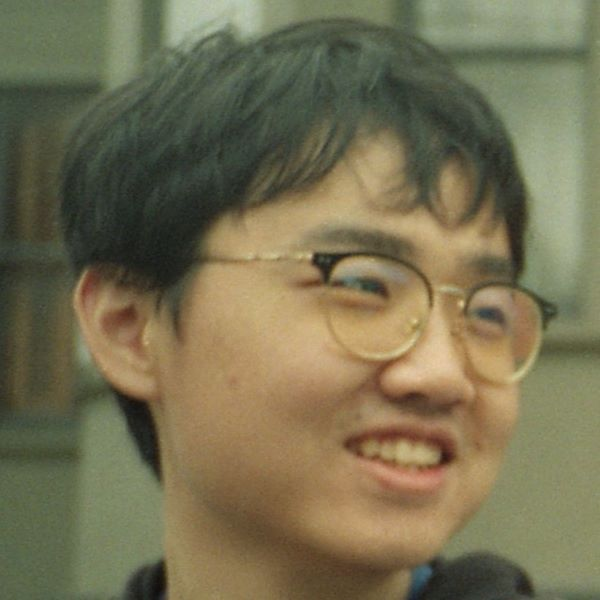
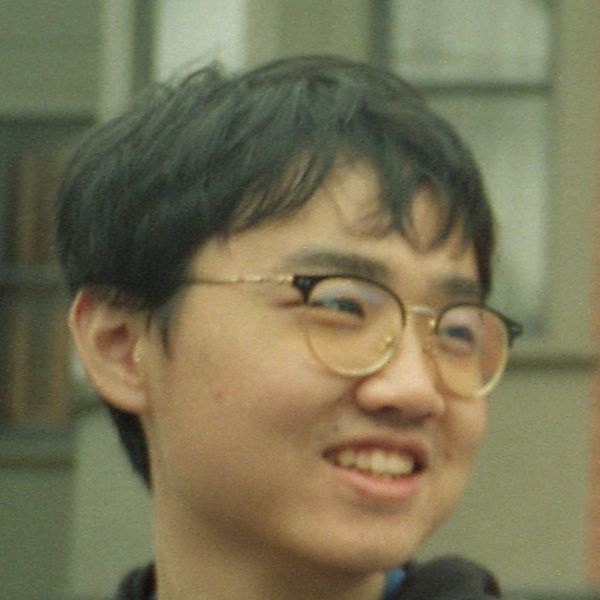
Site updated: 2024-02-05 13:10:51

diff --git a/Experience/index.html b/Experience/index.html
@@ -1,5 +1,5 @@
 <!DOCTYPE html><html lang="en"><head><meta charset="UTF-8"><meta http-equiv="X-UA-Compatible" content="IE=edge"><meta name="viewport" content="width=device-width, initial-scale=1, maximum-scale=5"><title>Fang Chen (谌放)</title><meta name="author" content="Fang Chen"><link rel="shortcut icon" href="/img/favicon.png"><link rel="stylesheet" href="/css/index.css"><link rel="stylesheet" href="https://cdn.jsdelivr.net/npm/font-awesome@latest/css/font-awesome.min.css"><link rel="stylesheet" href="https://cdn.jsdelivr.net/npm/@fortawesome/fontawesome-free@5.13.0/css/all.min.css"><meta name="generator" content="Hexo 7.1.1"><link rel="alternate" href="/atom.xml" title="Fang Chen (谌放)" type="application/atom+xml">
-</head><body><header id="page_header"><div class="header_wrap"><div id="blog_name"><a class="blog_title" id="site-name" href="/">Fang Chen (谌放)</a></div><button class="menus_icon"><div class="navicon"></div></button><ul class="menus_items"><li class="menus_item"><a class="site-page" href="/Publications"> Publications</a></li><li class="menus_item"><a class="site-page" href="/Experience"> Experience</a></li><li class="menus_item"><a class="site-page" href="/Teaching"> Teaching</a></li></ul></div></header><main id="page_main"><div class="side-card sticky"><div class="card-wrap" itemscope itemtype="http://schema.org/Person"><div class="author-avatar"><img class="avatar-img" src="/img/profile.jpg" onerror="this.onerror=null;this.src='/img/profile.jpg'" alt="avatar"></div><div class="author-discrip"><h3>Fang Chen</h3><p class="author-bio">Ph.D. student @ University of California Merced</p></div><div class="author-links"><button class="btn m-social-links">Links</button><ul class="social-icons"><li><a class="social-icon" href="https://github.com/C-Fun" target="_blank"><i class="fab fa-github" aria-hidden="true"></i></a></li><li><a class="social-icon" href="https://www.linkedin.com/in/cfun/" target="_blank"><i class="fab fa-linkedin" aria-hidden="true"></i></a></li><li><a class="social-icon" href="mailto:fchen20@ucmerced.edu" target="_blank"><i class="fas fa-envelope" aria-hidden="true"></i></a></li></ul><ul class="social-links"><li><a class="e-social-link" href="https://scholar.google.com/citations?user=5Hu8vwwAAAAJ&amp;hl=en&amp;authuser=1" target="_blank"><i class="fas fa-graduation-cap" aria-hidden="true"></i><span>Google Scholar</span></a></li></ul></div><a class="cv-links" href="/attaches/CV.pdf" target="_blank"><i class="fas fa-file-pdf" aria-hidden="true"><span>My Curriculum Vitae</span></i></a></div></div><div class="page" itemscope itemtype="http://schema.org/CreativeWork"><h2 class="page-title">Experience</h2><article><ul>
+</head><body><header id="page_header"><div class="header_wrap"><div id="blog_name"><a class="blog_title" id="site-name" href="/">Fang Chen (谌放)</a></div><button class="menus_icon"><div class="navicon"></div></button><ul class="menus_items"><li class="menus_item"><a class="site-page" href="/Publications"> Publications</a></li><li class="menus_item"><a class="site-page" href="/Experience"> Experience</a></li><li class="menus_item"><a class="site-page" href="/Teaching"> Teaching</a></li></ul></div></header><main id="page_main"><div class="side-card sticky"><div class="card-wrap" itemscope itemtype="http://schema.org/Person"><div class="author-avatar"><img class="avatar-img" src="/img/profile_2024.jpg" onerror="this.onerror=null;this.src='/img/profile_2024.jpg'" alt="avatar"></div><div class="author-discrip"><h3>Fang Chen</h3><p class="author-bio">Ph.D. student @ University of California Merced</p></div><div class="author-links"><button class="btn m-social-links">Links</button><ul class="social-icons"><li><a class="social-icon" href="https://github.com/C-Fun" target="_blank"><i class="fab fa-github" aria-hidden="true"></i></a></li><li><a class="social-icon" href="https://www.linkedin.com/in/cfun/" target="_blank"><i class="fab fa-linkedin" aria-hidden="true"></i></a></li><li><a class="social-icon" href="mailto:fchen20@ucmerced.edu" target="_blank"><i class="fas fa-envelope" aria-hidden="true"></i></a></li></ul><ul class="social-links"><li><a class="e-social-link" href="https://scholar.google.com/citations?user=5Hu8vwwAAAAJ&amp;hl=en&amp;authuser=1" target="_blank"><i class="fas fa-graduation-cap" aria-hidden="true"></i><span>Google Scholar</span></a></li></ul></div><a class="cv-links" href="/attaches/CV.pdf" target="_blank"><i class="fas fa-file-pdf" aria-hidden="true"><span>My Curriculum Vitae</span></i></a></div></div><div class="page" itemscope itemtype="http://schema.org/CreativeWork"><h2 class="page-title">Experience</h2><article><ul>
 <li><a target="_blank" rel="noopener" href="https://intelailabpage.github.io/"><strong>Intel AI Lab</strong></a> | Graduate Intern (May 2022 - Jan. 2023)</li>
 </ul>
 </article></div></main><div class="nav-wrap"><div class="nav"><button class="site-nav"><div class="navicon"></div></button><ul class="nav_items"><li class="nav_item"><a class="nav-page" href="/Publications"> Publications</a></li><li class="nav_item"><a class="nav-page" href="/Experience"> Experience</a></li><li class="nav_item"><a class="nav-page" href="/Teaching"> Teaching</a></li></ul></div><div class="cd-top"><i class="fa fa-arrow-up" aria-hidden="true"></i></div></div><footer id="page_footer"><div class="footer_wrap"><div class="copyright">&copy;2021 - 2024 by Fang Chen</div><div class="theme-info">Powered by <a target="_blank" href="https://hexo.io" rel="nofollow noopener">Hexo</a> & <a target="_blank" href="https://github.com/PhosphorW/hexo-theme-academia" rel="nofollow noopener">Academia Theme</a></div></div></footer><script src="https://cdn.jsdelivr.net/npm/jquery@latest/dist/jquery.min.js"></script><script src="https://cdn.jsdelivr.net/npm/jquery-pjax@latest/jquery.pjax.min.js"></script><script src="/js/main.js"></script></body></html>

diff --git a/Teaching/index.html b/Teaching/index.html
@@ -1,5 +1,5 @@
 <!DOCTYPE html><html lang="en"><head><meta charset="UTF-8"><meta http-equiv="X-UA-Compatible" content="IE=edge"><meta name="viewport" content="width=device-width, initial-scale=1, maximum-scale=5"><title>Fang Chen (谌放)</title><meta name="author" content="Fang Chen"><link rel="shortcut icon" href="/img/favicon.png"><link rel="stylesheet" href="/css/index.css"><link rel="stylesheet" href="https://cdn.jsdelivr.net/npm/font-awesome@latest/css/font-awesome.min.css"><link rel="stylesheet" href="https://cdn.jsdelivr.net/npm/@fortawesome/fontawesome-free@5.13.0/css/all.min.css"><meta name="generator" content="Hexo 7.1.1"><link rel="alternate" href="/atom.xml" title="Fang Chen (谌放)" type="application/atom+xml">
-</head><body><header id="page_header"><div class="header_wrap"><div id="blog_name"><a class="blog_title" id="site-name" href="/">Fang Chen (谌放)</a></div><button class="menus_icon"><div class="navicon"></div></button><ul class="menus_items"><li class="menus_item"><a class="site-page" href="/Publications"> Publications</a></li><li class="menus_item"><a class="site-page" href="/Experience"> Experience</a></li><li class="menus_item"><a class="site-page" href="/Teaching"> Teaching</a></li></ul></div></header><main id="page_main"><div class="side-card sticky"><div class="card-wrap" itemscope itemtype="http://schema.org/Person"><div class="author-avatar"><img class="avatar-img" src="/img/profile.jpg" onerror="this.onerror=null;this.src='/img/profile.jpg'" alt="avatar"></div><div class="author-discrip"><h3>Fang Chen</h3><p class="author-bio">Ph.D. student @ University of California Merced</p></div><div class="author-links"><button class="btn m-social-links">Links</button><ul class="social-icons"><li><a class="social-icon" href="https://github.com/C-Fun" target="_blank"><i class="fab fa-github" aria-hidden="true"></i></a></li><li><a class="social-icon" href="https://www.linkedin.com/in/cfun/" target="_blank"><i class="fab fa-linkedin" aria-hidden="true"></i></a></li><li><a class="social-icon" href="mailto:fchen20@ucmerced.edu" target="_blank"><i class="fas fa-envelope" aria-hidden="true"></i></a></li></ul><ul class="social-links"><li><a class="e-social-link" href="https://scholar.google.com/citations?user=5Hu8vwwAAAAJ&amp;hl=en&amp;authuser=1" target="_blank"><i class="fas fa-graduation-cap" aria-hidden="true"></i><span>Google Scholar</span></a></li></ul></div><a class="cv-links" href="/attaches/CV.pdf" target="_blank"><i class="fas fa-file-pdf" aria-hidden="true"><span>My Curriculum Vitae</span></i></a></div></div><div class="page" itemscope itemtype="http://schema.org/CreativeWork"><h2 class="page-title">Teaching</h2><article><ul>
+</head><body><header id="page_header"><div class="header_wrap"><div id="blog_name"><a class="blog_title" id="site-name" href="/">Fang Chen (谌放)</a></div><button class="menus_icon"><div class="navicon"></div></button><ul class="menus_items"><li class="menus_item"><a class="site-page" href="/Publications"> Publications</a></li><li class="menus_item"><a class="site-page" href="/Experience"> Experience</a></li><li class="menus_item"><a class="site-page" href="/Teaching"> Teaching</a></li></ul></div></header><main id="page_main"><div class="side-card sticky"><div class="card-wrap" itemscope itemtype="http://schema.org/Person"><div class="author-avatar"><img class="avatar-img" src="/img/profile_2024.jpg" onerror="this.onerror=null;this.src='/img/profile_2024.jpg'" alt="avatar"></div><div class="author-discrip"><h3>Fang Chen</h3><p class="author-bio">Ph.D. student @ University of California Merced</p></div><div class="author-links"><button class="btn m-social-links">Links</button><ul class="social-icons"><li><a class="social-icon" href="https://github.com/C-Fun" target="_blank"><i class="fab fa-github" aria-hidden="true"></i></a></li><li><a class="social-icon" href="https://www.linkedin.com/in/cfun/" target="_blank"><i class="fab fa-linkedin" aria-hidden="true"></i></a></li><li><a class="social-icon" href="mailto:fchen20@ucmerced.edu" target="_blank"><i class="fas fa-envelope" aria-hidden="true"></i></a></li></ul><ul class="social-links"><li><a class="e-social-link" href="https://scholar.google.com/citations?user=5Hu8vwwAAAAJ&amp;hl=en&amp;authuser=1" target="_blank"><i class="fas fa-graduation-cap" aria-hidden="true"></i><span>Google Scholar</span></a></li></ul></div><a class="cv-links" href="/attaches/CV.pdf" target="_blank"><i class="fas fa-file-pdf" aria-hidden="true"><span>My Curriculum Vitae</span></i></a></div></div><div class="page" itemscope itemtype="http://schema.org/CreativeWork"><h2 class="page-title">Teaching</h2><article><ul>
 <li><strong>CSE 170: Computer Graphics, Lab Session</strong> | undergraduate course, UC Merced, 2024 spring</li>
 </ul>
 </article></div></main><div class="nav-wrap"><div class="nav"><button class="site-nav"><div class="navicon"></div></button><ul class="nav_items"><li class="nav_item"><a class="nav-page" href="/Publications"> Publications</a></li><li class="nav_item"><a class="nav-page" href="/Experience"> Experience</a></li><li class="nav_item"><a class="nav-page" href="/Teaching"> Teaching</a></li></ul></div><div class="cd-top"><i class="fa fa-arrow-up" aria-hidden="true"></i></div></div><footer id="page_footer"><div class="footer_wrap"><div class="copyright">&copy;2021 - 2024 by Fang Chen</div><div class="theme-info">Powered by <a target="_blank" href="https://hexo.io" rel="nofollow noopener">Hexo</a> & <a target="_blank" href="https://github.com/PhosphorW/hexo-theme-academia" rel="nofollow noopener">Academia Theme</a></div></div></footer><script src="https://cdn.jsdelivr.net/npm/jquery@latest/dist/jquery.min.js"></script><script src="https://cdn.jsdelivr.net/npm/jquery-pjax@latest/jquery.pjax.min.js"></script><script src="/js/main.js"></script></body></html>

diff --git a/2024/01/23/About/index.html b/2024/01/23/About/index.html
@@ -1,5 +1,5 @@
 <!DOCTYPE html><html lang="en"><head><meta charset="UTF-8"><meta http-equiv="X-UA-Compatible" content="IE=edge"><meta name="viewport" content="width=device-width, initial-scale=1, maximum-scale=5"><title>Fang Chen (谌放)</title><meta name="author" content="Fang Chen"><link rel="shortcut icon" href="/img/favicon.png"><link rel="stylesheet" href="/css/index.css"><link rel="stylesheet" href="https://cdn.jsdelivr.net/npm/font-awesome@latest/css/font-awesome.min.css"><link rel="stylesheet" href="https://cdn.jsdelivr.net/npm/@fortawesome/fontawesome-free@5.13.0/css/all.min.css"><meta name="generator" content="Hexo 7.1.1"><link rel="alternate" href="/atom.xml" title="Fang Chen (谌放)" type="application/atom+xml">
-</head><body><header id="page_header"><div class="header_wrap"><div id="blog_name"><a class="blog_title" id="site-name" href="/">Fang Chen (谌放)</a></div><button class="menus_icon"><div class="navicon"></div></button><ul class="menus_items"><li class="menus_item"><a class="site-page" href="/Publications"> Publications</a></li><li class="menus_item"><a class="site-page" href="/Experience"> Experience</a></li><li class="menus_item"><a class="site-page" href="/Teaching"> Teaching</a></li></ul></div></header><main id="page_main"><div class="side-card sticky"><div class="card-wrap" itemscope itemtype="http://schema.org/Person"><div class="author-avatar"><img class="avatar-img" src="/img/profile.jpg" onerror="this.onerror=null;this.src='/img/profile.jpg'" alt="avatar"></div><div class="author-discrip"><h3>Fang Chen</h3><p class="author-bio">Ph.D. student @ University of California Merced</p></div><div class="author-links"><button class="btn m-social-links">Links</button><ul class="social-icons"><li><a class="social-icon" href="https://github.com/C-Fun" target="_blank"><i class="fab fa-github" aria-hidden="true"></i></a></li><li><a class="social-icon" href="https://www.linkedin.com/in/cfun/" target="_blank"><i class="fab fa-linkedin" aria-hidden="true"></i></a></li><li><a class="social-icon" href="mailto:fchen20@ucmerced.edu" target="_blank"><i class="fas fa-envelope" aria-hidden="true"></i></a></li></ul><ul class="social-links"><li><a class="e-social-link" href="https://scholar.google.com/citations?user=5Hu8vwwAAAAJ&amp;hl=en&amp;authuser=1" target="_blank"><i class="fas fa-graduation-cap" aria-hidden="true"></i><span>Google Scholar</span></a></li></ul></div><a class="cv-links" href="/attaches/CV.pdf" target="_blank"><i class="fas fa-file-pdf" aria-hidden="true"><span>My Curriculum Vitae</span></i></a></div></div><div class="page" itemscope itemtype="http://schema.org/CreativeWork"><h2 class="page-title">About</h2><article><h1 id="About-Me"><a href="#About-Me" class="headerlink" title="About Me"></a>About Me</h1><p> I am a first-year CS Ph.D. student at EECS of University of California Merced, supervised by <a target="_blank" rel="noopener" href="http://mengtang.org/">Prof. Meng Tang</a>. </p>
+</head><body><header id="page_header"><div class="header_wrap"><div id="blog_name"><a class="blog_title" id="site-name" href="/">Fang Chen (谌放)</a></div><button class="menus_icon"><div class="navicon"></div></button><ul class="menus_items"><li class="menus_item"><a class="site-page" href="/Publications"> Publications</a></li><li class="menus_item"><a class="site-page" href="/Experience"> Experience</a></li><li class="menus_item"><a class="site-page" href="/Teaching"> Teaching</a></li></ul></div></header><main id="page_main"><div class="side-card sticky"><div class="card-wrap" itemscope itemtype="http://schema.org/Person"><div class="author-avatar"><img class="avatar-img" src="/img/profile_2024.jpg" onerror="this.onerror=null;this.src='/img/profile_2024.jpg'" alt="avatar"></div><div class="author-discrip"><h3>Fang Chen</h3><p class="author-bio">Ph.D. student @ University of California Merced</p></div><div class="author-links"><button class="btn m-social-links">Links</button><ul class="social-icons"><li><a class="social-icon" href="https://github.com/C-Fun" target="_blank"><i class="fab fa-github" aria-hidden="true"></i></a></li><li><a class="social-icon" href="https://www.linkedin.com/in/cfun/" target="_blank"><i class="fab fa-linkedin" aria-hidden="true"></i></a></li><li><a class="social-icon" href="mailto:fchen20@ucmerced.edu" target="_blank"><i class="fas fa-envelope" aria-hidden="true"></i></a></li></ul><ul class="social-links"><li><a class="e-social-link" href="https://scholar.google.com/citations?user=5Hu8vwwAAAAJ&amp;hl=en&amp;authuser=1" target="_blank"><i class="fas fa-graduation-cap" aria-hidden="true"></i><span>Google Scholar</span></a></li></ul></div><a class="cv-links" href="/attaches/CV.pdf" target="_blank"><i class="fas fa-file-pdf" aria-hidden="true"><span>My Curriculum Vitae</span></i></a></div></div><div class="page" itemscope itemtype="http://schema.org/CreativeWork"><h2 class="page-title">About</h2><article><h1 id="About-Me"><a href="#About-Me" class="headerlink" title="About Me"></a>About Me</h1><p> I am a first-year CS Ph.D. student at EECS of University of California Merced, supervised by <a target="_blank" rel="noopener" href="http://mengtang.org/">Prof. Meng Tang</a>. </p>
 <p> Previously, I received my M.S. degree in Electrical Engineering at University of Southern California, working with <a target="_blank" rel="noopener" href="https://sites.usc.edu/eessc/">EESSC</a>.<br> I received my B.E. degree in Digital Media Technology at Chongqing University of Posts and Telecommunications, supervised by <a target="_blank" rel="noopener" href="https://gaocq.github.io/">Prof. Chenqiang Gao</a>.</p>
 <p> My research interests are computer vision and efficient deep learning. More specifically,</p>
 <ul>

diff --git a/archives/2024/01/index.html b/archives/2024/01/index.html
@@ -1,5 +1,5 @@
 <!DOCTYPE html><html lang="en"><head><meta charset="UTF-8"><meta http-equiv="X-UA-Compatible" content="IE=edge"><meta name="viewport" content="width=device-width, initial-scale=1, maximum-scale=5"><title>Fang Chen (谌放)</title><meta name="author" content="Fang Chen"><link rel="shortcut icon" href="/img/favicon.png"><link rel="stylesheet" href="/css/index.css"><link rel="stylesheet" href="https://cdn.jsdelivr.net/npm/font-awesome@latest/css/font-awesome.min.css"><link rel="stylesheet" href="https://cdn.jsdelivr.net/npm/@fortawesome/fontawesome-free@5.13.0/css/all.min.css"><meta name="generator" content="Hexo 7.1.1"><link rel="alternate" href="/atom.xml" title="Fang Chen (谌放)" type="application/atom+xml">
-</head><body><header id="page_header"><div class="header_wrap"><div id="blog_name"><a class="blog_title" id="site-name" href="/">Fang Chen (谌放)</a></div><button class="menus_icon"><div class="navicon"></div></button><ul class="menus_items"><li class="menus_item"><a class="site-page" href="/Publications"> Publications</a></li><li class="menus_item"><a class="site-page" href="/Experience"> Experience</a></li><li class="menus_item"><a class="site-page" href="/Teaching"> Teaching</a></li></ul></div></header><main id="page_main"><div class="side-card sticky"><div class="card-wrap" itemscope itemtype="http://schema.org/Person"><div class="author-avatar"><img class="avatar-img" src="/img/profile.jpg" onerror="this.onerror=null;this.src='/img/profile.jpg'" alt="avatar"></div><div class="author-discrip"><h3>Fang Chen</h3><p class="author-bio">Ph.D. student @ University of California Merced</p></div><div class="author-links"><button class="btn m-social-links">Links</button><ul class="social-icons"><li><a class="social-icon" href="https://github.com/C-Fun" target="_blank"><i class="fab fa-github" aria-hidden="true"></i></a></li><li><a class="social-icon" href="https://www.linkedin.com/in/cfun/" target="_blank"><i class="fab fa-linkedin" aria-hidden="true"></i></a></li><li><a class="social-icon" href="mailto:fchen20@ucmerced.edu" target="_blank"><i class="fas fa-envelope" aria-hidden="true"></i></a></li></ul><ul class="social-links"><li><a class="e-social-link" href="https://scholar.google.com/citations?user=5Hu8vwwAAAAJ&amp;hl=en&amp;authuser=1" target="_blank"><i class="fas fa-graduation-cap" aria-hidden="true"></i><span>Google Scholar</span></a></li></ul></div><a class="cv-links" href="/attaches/CV.pdf" target="_blank"><i class="fas fa-file-pdf" aria-hidden="true"><span>My Curriculum Vitae</span></i></a></div></div><div class="page" itemscope itemtype="http://schema.org/CreativeWork"><article><h1 id="About-Me"><a href="#About-Me" class="headerlink" title="About Me"></a>About Me</h1><p> I am a first-year CS Ph.D. student at EECS of University of California Merced, supervised by <a target="_blank" rel="noopener" href="http://mengtang.org/">Prof. Meng Tang</a>. </p>
+</head><body><header id="page_header"><div class="header_wrap"><div id="blog_name"><a class="blog_title" id="site-name" href="/">Fang Chen (谌放)</a></div><button class="menus_icon"><div class="navicon"></div></button><ul class="menus_items"><li class="menus_item"><a class="site-page" href="/Publications"> Publications</a></li><li class="menus_item"><a class="site-page" href="/Experience"> Experience</a></li><li class="menus_item"><a class="site-page" href="/Teaching"> Teaching</a></li></ul></div></header><main id="page_main"><div class="side-card sticky"><div class="card-wrap" itemscope itemtype="http://schema.org/Person"><div class="author-avatar"><img class="avatar-img" src="/img/profile_2024.jpg" onerror="this.onerror=null;this.src='/img/profile_2024.jpg'" alt="avatar"></div><div class="author-discrip"><h3>Fang Chen</h3><p class="author-bio">Ph.D. student @ University of California Merced</p></div><div class="author-links"><button class="btn m-social-links">Links</button><ul class="social-icons"><li><a class="social-icon" href="https://github.com/C-Fun" target="_blank"><i class="fab fa-github" aria-hidden="true"></i></a></li><li><a class="social-icon" href="https://www.linkedin.com/in/cfun/" target="_blank"><i class="fab fa-linkedin" aria-hidden="true"></i></a></li><li><a class="social-icon" href="mailto:fchen20@ucmerced.edu" target="_blank"><i class="fas fa-envelope" aria-hidden="true"></i></a></li></ul><ul class="social-links"><li><a class="e-social-link" href="https://scholar.google.com/citations?user=5Hu8vwwAAAAJ&amp;hl=en&amp;authuser=1" target="_blank"><i class="fas fa-graduation-cap" aria-hidden="true"></i><span>Google Scholar</span></a></li></ul></div><a class="cv-links" href="/attaches/CV.pdf" target="_blank"><i class="fas fa-file-pdf" aria-hidden="true"><span>My Curriculum Vitae</span></i></a></div></div><div class="page" itemscope itemtype="http://schema.org/CreativeWork"><article><h1 id="About-Me"><a href="#About-Me" class="headerlink" title="About Me"></a>About Me</h1><p> I am a first-year CS Ph.D. student at EECS of University of California Merced, supervised by <a target="_blank" rel="noopener" href="http://mengtang.org/">Prof. Meng Tang</a>. </p>
 <p> Previously, I received my M.S. degree in Electrical Engineering at University of Southern California, working with <a target="_blank" rel="noopener" href="https://sites.usc.edu/eessc/">EESSC</a>.<br> I received my B.E. degree in Digital Media Technology at Chongqing University of Posts and Telecommunications, supervised by <a target="_blank" rel="noopener" href="https://gaocq.github.io/">Prof. Chenqiang Gao</a>.</p>
 <p> My research interests are computer vision and efficient deep learning. More specifically,</p>
 <ul>

diff --git a/archives/2024/index.html b/archives/2024/index.html
@@ -1,5 +1,5 @@
 <!DOCTYPE html><html lang="en"><head><meta charset="UTF-8"><meta http-equiv="X-UA-Compatible" content="IE=edge"><meta name="viewport" content="width=device-width, initial-scale=1, maximum-scale=5"><title>Fang Chen (谌放)</title><meta name="author" content="Fang Chen"><link rel="shortcut icon" href="/img/favicon.png"><link rel="stylesheet" href="/css/index.css"><link rel="stylesheet" href="https://cdn.jsdelivr.net/npm/font-awesome@latest/css/font-awesome.min.css"><link rel="stylesheet" href="https://cdn.jsdelivr.net/npm/@fortawesome/fontawesome-free@5.13.0/css/all.min.css"><meta name="generator" content="Hexo 7.1.1"><link rel="alternate" href="/atom.xml" title="Fang Chen (谌放)" type="application/atom+xml">
-</head><body><header id="page_header"><div class="header_wrap"><div id="blog_name"><a class="blog_title" id="site-name" href="/">Fang Chen (谌放)</a></div><button class="menus_icon"><div class="navicon"></div></button><ul class="menus_items"><li class="menus_item"><a class="site-page" href="/Publications"> Publications</a></li><li class="menus_item"><a class="site-page" href="/Experience"> Experience</a></li><li class="menus_item"><a class="site-page" href="/Teaching"> Teaching</a></li></ul></div></header><main id="page_main"><div class="side-card sticky"><div class="card-wrap" itemscope itemtype="http://schema.org/Person"><div class="author-avatar"><img class="avatar-img" src="/img/profile.jpg" onerror="this.onerror=null;this.src='/img/profile.jpg'" alt="avatar"></div><div class="author-discrip"><h3>Fang Chen</h3><p class="author-bio">Ph.D. student @ University of California Merced</p></div><div class="author-links"><button class="btn m-social-links">Links</button><ul class="social-icons"><li><a class="social-icon" href="https://github.com/C-Fun" target="_blank"><i class="fab fa-github" aria-hidden="true"></i></a></li><li><a class="social-icon" href="https://www.linkedin.com/in/cfun/" target="_blank"><i class="fab fa-linkedin" aria-hidden="true"></i></a></li><li><a class="social-icon" href="mailto:fchen20@ucmerced.edu" target="_blank"><i class="fas fa-envelope" aria-hidden="true"></i></a></li></ul><ul class="social-links"><li><a class="e-social-link" href="https://scholar.google.com/citations?user=5Hu8vwwAAAAJ&amp;hl=en&amp;authuser=1" target="_blank"><i class="fas fa-graduation-cap" aria-hidden="true"></i><span>Google Scholar</span></a></li></ul></div><a class="cv-links" href="/attaches/CV.pdf" target="_blank"><i class="fas fa-file-pdf" aria-hidden="true"><span>My Curriculum Vitae</span></i></a></div></div><div class="page" itemscope itemtype="http://schema.org/CreativeWork"><article><h1 id="About-Me"><a href="#About-Me" class="headerlink" title="About Me"></a>About Me</h1><p> I am a first-year CS Ph.D. student at EECS of University of California Merced, supervised by <a target="_blank" rel="noopener" href="http://mengtang.org/">Prof. Meng Tang</a>. </p>
+</head><body><header id="page_header"><div class="header_wrap"><div id="blog_name"><a class="blog_title" id="site-name" href="/">Fang Chen (谌放)</a></div><button class="menus_icon"><div class="navicon"></div></button><ul class="menus_items"><li class="menus_item"><a class="site-page" href="/Publications"> Publications</a></li><li class="menus_item"><a class="site-page" href="/Experience"> Experience</a></li><li class="menus_item"><a class="site-page" href="/Teaching"> Teaching</a></li></ul></div></header><main id="page_main"><div class="side-card sticky"><div class="card-wrap" itemscope itemtype="http://schema.org/Person"><div class="author-avatar"><img class="avatar-img" src="/img/profile_2024.jpg" onerror="this.onerror=null;this.src='/img/profile_2024.jpg'" alt="avatar"></div><div class="author-discrip"><h3>Fang Chen</h3><p class="author-bio">Ph.D. student @ University of California Merced</p></div><div class="author-links"><button class="btn m-social-links">Links</button><ul class="social-icons"><li><a class="social-icon" href="https://github.com/C-Fun" target="_blank"><i class="fab fa-github" aria-hidden="true"></i></a></li><li><a class="social-icon" href="https://www.linkedin.com/in/cfun/" target="_blank"><i class="fab fa-linkedin" aria-hidden="true"></i></a></li><li><a class="social-icon" href="mailto:fchen20@ucmerced.edu" target="_blank"><i class="fas fa-envelope" aria-hidden="true"></i></a></li></ul><ul class="social-links"><li><a class="e-social-link" href="https://scholar.google.com/citations?user=5Hu8vwwAAAAJ&amp;hl=en&amp;authuser=1" target="_blank"><i class="fas fa-graduation-cap" aria-hidden="true"></i><span>Google Scholar</span></a></li></ul></div><a class="cv-links" href="/attaches/CV.pdf" target="_blank"><i class="fas fa-file-pdf" aria-hidden="true"><span>My Curriculum Vitae</span></i></a></div></div><div class="page" itemscope itemtype="http://schema.org/CreativeWork"><article><h1 id="About-Me"><a href="#About-Me" class="headerlink" title="About Me"></a>About Me</h1><p> I am a first-year CS Ph.D. student at EECS of University of California Merced, supervised by <a target="_blank" rel="noopener" href="http://mengtang.org/">Prof. Meng Tang</a>. </p>
 <p> Previously, I received my M.S. degree in Electrical Engineering at University of Southern California, working with <a target="_blank" rel="noopener" href="https://sites.usc.edu/eessc/">EESSC</a>.<br> I received my B.E. degree in Digital Media Technology at Chongqing University of Posts and Telecommunications, supervised by <a target="_blank" rel="noopener" href="https://gaocq.github.io/">Prof. Chenqiang Gao</a>.</p>
 <p> My research interests are computer vision and efficient deep learning. More specifically,</p>
 <ul>

diff --git a/archives/index.html b/archives/index.html
@@ -1,5 +1,5 @@
 <!DOCTYPE html><html lang="en"><head><meta charset="UTF-8"><meta http-equiv="X-UA-Compatible" content="IE=edge"><meta name="viewport" content="width=device-width, initial-scale=1, maximum-scale=5"><title>Fang Chen (谌放)</title><meta name="author" content="Fang Chen"><link rel="shortcut icon" href="/img/favicon.png"><link rel="stylesheet" href="/css/index.css"><link rel="stylesheet" href="https://cdn.jsdelivr.net/npm/font-awesome@latest/css/font-awesome.min.css"><link rel="stylesheet" href="https://cdn.jsdelivr.net/npm/@fortawesome/fontawesome-free@5.13.0/css/all.min.css"><meta name="generator" content="Hexo 7.1.1"><link rel="alternate" href="/atom.xml" title="Fang Chen (谌放)" type="application/atom+xml">
-</head><body><header id="page_header"><div class="header_wrap"><div id="blog_name"><a class="blog_title" id="site-name" href="/">Fang Chen (谌放)</a></div><button class="menus_icon"><div class="navicon"></div></button><ul class="menus_items"><li class="menus_item"><a class="site-page" href="/Publications"> Publications</a></li><li class="menus_item"><a class="site-page" href="/Experience"> Experience</a></li><li class="menus_item"><a class="site-page" href="/Teaching"> Teaching</a></li></ul></div></header><main id="page_main"><div class="side-card sticky"><div class="card-wrap" itemscope itemtype="http://schema.org/Person"><div class="author-avatar"><img class="avatar-img" src="/img/profile.jpg" onerror="this.onerror=null;this.src='/img/profile.jpg'" alt="avatar"></div><div class="author-discrip"><h3>Fang Chen</h3><p class="author-bio">Ph.D. student @ University of California Merced</p></div><div class="author-links"><button class="btn m-social-links">Links</button><ul class="social-icons"><li><a class="social-icon" href="https://github.com/C-Fun" target="_blank"><i class="fab fa-github" aria-hidden="true"></i></a></li><li><a class="social-icon" href="https://www.linkedin.com/in/cfun/" target="_blank"><i class="fab fa-linkedin" aria-hidden="true"></i></a></li><li><a class="social-icon" href="mailto:fchen20@ucmerced.edu" target="_blank"><i class="fas fa-envelope" aria-hidden="true"></i></a></li></ul><ul class="social-links"><li><a class="e-social-link" href="https://scholar.google.com/citations?user=5Hu8vwwAAAAJ&amp;hl=en&amp;authuser=1" target="_blank"><i class="fas fa-graduation-cap" aria-hidden="true"></i><span>Google Scholar</span></a></li></ul></div><a class="cv-links" href="/attaches/CV.pdf" target="_blank"><i class="fas fa-file-pdf" aria-hidden="true"><span>My Curriculum Vitae</span></i></a></div></div><div class="page" itemscope itemtype="http://schema.org/CreativeWork"><article><h1 id="About-Me"><a href="#About-Me" class="headerlink" title="About Me"></a>About Me</h1><p> I am a first-year CS Ph.D. student at EECS of University of California Merced, supervised by <a target="_blank" rel="noopener" href="http://mengtang.org/">Prof. Meng Tang</a>. </p>
+</head><body><header id="page_header"><div class="header_wrap"><div id="blog_name"><a class="blog_title" id="site-name" href="/">Fang Chen (谌放)</a></div><button class="menus_icon"><div class="navicon"></div></button><ul class="menus_items"><li class="menus_item"><a class="site-page" href="/Publications"> Publications</a></li><li class="menus_item"><a class="site-page" href="/Experience"> Experience</a></li><li class="menus_item"><a class="site-page" href="/Teaching"> Teaching</a></li></ul></div></header><main id="page_main"><div class="side-card sticky"><div class="card-wrap" itemscope itemtype="http://schema.org/Person"><div class="author-avatar"><img class="avatar-img" src="/img/profile_2024.jpg" onerror="this.onerror=null;this.src='/img/profile_2024.jpg'" alt="avatar"></div><div class="author-discrip"><h3>Fang Chen</h3><p class="author-bio">Ph.D. student @ University of California Merced</p></div><div class="author-links"><button class="btn m-social-links">Links</button><ul class="social-icons"><li><a class="social-icon" href="https://github.com/C-Fun" target="_blank"><i class="fab fa-github" aria-hidden="true"></i></a></li><li><a class="social-icon" href="https://www.linkedin.com/in/cfun/" target="_blank"><i class="fab fa-linkedin" aria-hidden="true"></i></a></li><li><a class="social-icon" href="mailto:fchen20@ucmerced.edu" target="_blank"><i class="fas fa-envelope" aria-hidden="true"></i></a></li></ul><ul class="social-links"><li><a class="e-social-link" href="https://scholar.google.com/citations?user=5Hu8vwwAAAAJ&amp;hl=en&amp;authuser=1" target="_blank"><i class="fas fa-graduation-cap" aria-hidden="true"></i><span>Google Scholar</span></a></li></ul></div><a class="cv-links" href="/attaches/CV.pdf" target="_blank"><i class="fas fa-file-pdf" aria-hidden="true"><span>My Curriculum Vitae</span></i></a></div></div><div class="page" itemscope itemtype="http://schema.org/CreativeWork"><article><h1 id="About-Me"><a href="#About-Me" class="headerlink" title="About Me"></a>About Me</h1><p> I am a first-year CS Ph.D. student at EECS of University of California Merced, supervised by <a target="_blank" rel="noopener" href="http://mengtang.org/">Prof. Meng Tang</a>. </p>
 <p> Previously, I received my M.S. degree in Electrical Engineering at University of Southern California, working with <a target="_blank" rel="noopener" href="https://sites.usc.edu/eessc/">EESSC</a>.<br> I received my B.E. degree in Digital Media Technology at Chongqing University of Posts and Telecommunications, supervised by <a target="_blank" rel="noopener" href="https://gaocq.github.io/">Prof. Chenqiang Gao</a>.</p>
 <p> My research interests are computer vision and efficient deep learning. More specifically,</p>
 <ul>

diff --git a/index.html b/index.html
@@ -1,5 +1,5 @@
 <!DOCTYPE html><html lang="en"><head><meta charset="UTF-8"><meta http-equiv="X-UA-Compatible" content="IE=edge"><meta name="viewport" content="width=device-width, initial-scale=1, maximum-scale=5"><title>Fang Chen (谌放)</title><meta name="author" content="Fang Chen"><link rel="shortcut icon" href="/img/favicon.png"><link rel="stylesheet" href="/css/index.css"><link rel="stylesheet" href="https://cdn.jsdelivr.net/npm/font-awesome@latest/css/font-awesome.min.css"><link rel="stylesheet" href="https://cdn.jsdelivr.net/npm/@fortawesome/fontawesome-free@5.13.0/css/all.min.css"><meta name="generator" content="Hexo 7.1.1"><link rel="alternate" href="/atom.xml" title="Fang Chen (谌放)" type="application/atom+xml">
-</head><body><header id="page_header"><div class="header_wrap"><div id="blog_name"><a class="blog_title" id="site-name" href="/">Fang Chen (谌放)</a></div><button class="menus_icon"><div class="navicon"></div></button><ul class="menus_items"><li class="menus_item"><a class="site-page" href="/Publications"> Publications</a></li><li class="menus_item"><a class="site-page" href="/Experience"> Experience</a></li><li class="menus_item"><a class="site-page" href="/Teaching"> Teaching</a></li></ul></div></header><main id="page_main"><div class="side-card sticky"><div class="card-wrap" itemscope itemtype="http://schema.org/Person"><div class="author-avatar"><img class="avatar-img" src="/img/profile.jpg" onerror="this.onerror=null;this.src='/img/profile.jpg'" alt="avatar"></div><div class="author-discrip"><h3>Fang Chen</h3><p class="author-bio">Ph.D. student @ University of California Merced</p></div><div class="author-links"><button class="btn m-social-links">Links</button><ul class="social-icons"><li><a class="social-icon" href="https://github.com/C-Fun" target="_blank"><i class="fab fa-github" aria-hidden="true"></i></a></li><li><a class="social-icon" href="https://www.linkedin.com/in/cfun/" target="_blank"><i class="fab fa-linkedin" aria-hidden="true"></i></a></li><li><a class="social-icon" href="mailto:fchen20@ucmerced.edu" target="_blank"><i class="fas fa-envelope" aria-hidden="true"></i></a></li></ul><ul class="social-links"><li><a class="e-social-link" href="https://scholar.google.com/citations?user=5Hu8vwwAAAAJ&amp;hl=en&amp;authuser=1" target="_blank"><i class="fas fa-graduation-cap" aria-hidden="true"></i><span>Google Scholar</span></a></li></ul></div><a class="cv-links" href="/attaches/CV.pdf" target="_blank"><i class="fas fa-file-pdf" aria-hidden="true"><span>My Curriculum Vitae</span></i></a></div></div><div class="page" itemscope itemtype="http://schema.org/CreativeWork"><article><h1 id="About-Me"><a href="#About-Me" class="headerlink" title="About Me"></a>About Me</h1><p> I am a first-year CS Ph.D. student at EECS of University of California Merced, supervised by <a target="_blank" rel="noopener" href="http://mengtang.org/">Prof. Meng Tang</a>. </p>
+</head><body><header id="page_header"><div class="header_wrap"><div id="blog_name"><a class="blog_title" id="site-name" href="/">Fang Chen (谌放)</a></div><button class="menus_icon"><div class="navicon"></div></button><ul class="menus_items"><li class="menus_item"><a class="site-page" href="/Publications"> Publications</a></li><li class="menus_item"><a class="site-page" href="/Experience"> Experience</a></li><li class="menus_item"><a class="site-page" href="/Teaching"> Teaching</a></li></ul></div></header><main id="page_main"><div class="side-card sticky"><div class="card-wrap" itemscope itemtype="http://schema.org/Person"><div class="author-avatar"><img class="avatar-img" src="/img/profile_2024.jpg" onerror="this.onerror=null;this.src='/img/profile_2024.jpg'" alt="avatar"></div><div class="author-discrip"><h3>Fang Chen</h3><p class="author-bio">Ph.D. student @ University of California Merced</p></div><div class="author-links"><button class="btn m-social-links">Links</button><ul class="social-icons"><li><a class="social-icon" href="https://github.com/C-Fun" target="_blank"><i class="fab fa-github" aria-hidden="true"></i></a></li><li><a class="social-icon" href="https://www.linkedin.com/in/cfun/" target="_blank"><i class="fab fa-linkedin" aria-hidden="true"></i></a></li><li><a class="social-icon" href="mailto:fchen20@ucmerced.edu" target="_blank"><i class="fas fa-envelope" aria-hidden="true"></i></a></li></ul><ul class="social-links"><li><a class="e-social-link" href="https://scholar.google.com/citations?user=5Hu8vwwAAAAJ&amp;hl=en&amp;authuser=1" target="_blank"><i class="fas fa-graduation-cap" aria-hidden="true"></i><span>Google Scholar</span></a></li></ul></div><a class="cv-links" href="/attaches/CV.pdf" target="_blank"><i class="fas fa-file-pdf" aria-hidden="true"><span>My Curriculum Vitae</span></i></a></div></div><div class="page" itemscope itemtype="http://schema.org/CreativeWork"><article><h1 id="About-Me"><a href="#About-Me" class="headerlink" title="About Me"></a>About Me</h1><p> I am a first-year CS Ph.D. student at EECS of University of California Merced, supervised by <a target="_blank" rel="noopener" href="http://mengtang.org/">Prof. Meng Tang</a>. </p>
 <p> Previously, I received my M.S. degree in Electrical Engineering at University of Southern California, working with <a target="_blank" rel="noopener" href="https://sites.usc.edu/eessc/">EESSC</a>.<br> I received my B.E. degree in Digital Media Technology at Chongqing University of Posts and Telecommunications, supervised by <a target="_blank" rel="noopener" href="https://gaocq.github.io/">Prof. Chenqiang Gao</a>.</p>
 <p> My research interests are computer vision and efficient deep learning. More specifically,</p>
 <ul>

diff --git a/Publications/index.html b/Publications/index.html
@@ -1,5 +1,5 @@
 <!DOCTYPE html><html lang="en"><head><meta charset="UTF-8"><meta http-equiv="X-UA-Compatible" content="IE=edge"><meta name="viewport" content="width=device-width, initial-scale=1, maximum-scale=5"><title>Fang Chen (谌放)</title><meta name="author" content="Fang Chen"><link rel="shortcut icon" href="/img/favicon.png"><link rel="stylesheet" href="/css/index.css"><link rel="stylesheet" href="https://cdn.jsdelivr.net/npm/font-awesome@latest/css/font-awesome.min.css"><link rel="stylesheet" href="https://cdn.jsdelivr.net/npm/@fortawesome/fontawesome-free@5.13.0/css/all.min.css"><meta name="generator" content="Hexo 7.1.1"><link rel="alternate" href="/atom.xml" title="Fang Chen (谌放)" type="application/atom+xml">
-</head><body><header id="page_header"><div class="header_wrap"><div id="blog_name"><a class="blog_title" id="site-name" href="/">Fang Chen (谌放)</a></div><button class="menus_icon"><div class="navicon"></div></button><ul class="menus_items"><li class="menus_item"><a class="site-page" href="/Publications"> Publications</a></li><li class="menus_item"><a class="site-page" href="/Experience"> Experience</a></li><li class="menus_item"><a class="site-page" href="/Teaching"> Teaching</a></li></ul></div></header><main id="page_main"><div class="side-card sticky"><div class="card-wrap" itemscope itemtype="http://schema.org/Person"><div class="author-avatar"><img class="avatar-img" src="/img/profile.jpg" onerror="this.onerror=null;this.src='/img/profile.jpg'" alt="avatar"></div><div class="author-discrip"><h3>Fang Chen</h3><p class="author-bio">Ph.D. student @ University of California Merced</p></div><div class="author-links"><button class="btn m-social-links">Links</button><ul class="social-icons"><li><a class="social-icon" href="https://github.com/C-Fun" target="_blank"><i class="fab fa-github" aria-hidden="true"></i></a></li><li><a class="social-icon" href="https://www.linkedin.com/in/cfun/" target="_blank"><i class="fab fa-linkedin" aria-hidden="true"></i></a></li><li><a class="social-icon" href="mailto:fchen20@ucmerced.edu" target="_blank"><i class="fas fa-envelope" aria-hidden="true"></i></a></li></ul><ul class="social-links"><li><a class="e-social-link" href="https://scholar.google.com/citations?user=5Hu8vwwAAAAJ&amp;hl=en&amp;authuser=1" target="_blank"><i class="fas fa-graduation-cap" aria-hidden="true"></i><span>Google Scholar</span></a></li></ul></div><a class="cv-links" href="/attaches/CV.pdf" target="_blank"><i class="fas fa-file-pdf" aria-hidden="true"><span>My Curriculum Vitae</span></i></a></div></div><div class="page" itemscope itemtype="http://schema.org/CreativeWork"><h2 class="page-title">Publications</h2><article><ul>
+</head><body><header id="page_header"><div class="header_wrap"><div id="blog_name"><a class="blog_title" id="site-name" href="/">Fang Chen (谌放)</a></div><button class="menus_icon"><div class="navicon"></div></button><ul class="menus_items"><li class="menus_item"><a class="site-page" href="/Publications"> Publications</a></li><li class="menus_item"><a class="site-page" href="/Experience"> Experience</a></li><li class="menus_item"><a class="site-page" href="/Teaching"> Teaching</a></li></ul></div></header><main id="page_main"><div class="side-card sticky"><div class="card-wrap" itemscope itemtype="http://schema.org/Person"><div class="author-avatar"><img class="avatar-img" src="/img/profile_2024.jpg" onerror="this.onerror=null;this.src='/img/profile_2024.jpg'" alt="avatar"></div><div class="author-discrip"><h3>Fang Chen</h3><p class="author-bio">Ph.D. student @ University of California Merced</p></div><div class="author-links"><button class="btn m-social-links">Links</button><ul class="social-icons"><li><a class="social-icon" href="https://github.com/C-Fun" target="_blank"><i class="fab fa-github" aria-hidden="true"></i></a></li><li><a class="social-icon" href="https://www.linkedin.com/in/cfun/" target="_blank"><i class="fab fa-linkedin" aria-hidden="true"></i></a></li><li><a class="social-icon" href="mailto:fchen20@ucmerced.edu" target="_blank"><i class="fas fa-envelope" aria-hidden="true"></i></a></li></ul><ul class="social-links"><li><a class="e-social-link" href="https://scholar.google.com/citations?user=5Hu8vwwAAAAJ&amp;hl=en&amp;authuser=1" target="_blank"><i class="fas fa-graduation-cap" aria-hidden="true"></i><span>Google Scholar</span></a></li></ul></div><a class="cv-links" href="/attaches/CV.pdf" target="_blank"><i class="fas fa-file-pdf" aria-hidden="true"><span>My Curriculum Vitae</span></i></a></div></div><div class="page" itemscope itemtype="http://schema.org/CreativeWork"><h2 class="page-title">Publications</h2><article><ul>
 <li><p><a href=""><strong>Simq-nas: Simultaneous quantization policy and neural architecture search</strong></a> | <a target="_blank" rel="noopener" href="https://arxiv.org/abs/2312.13301">arxiv</a><br><em>Sharath Nittur Sridhar, Maciej Szankin, <strong>Fang Chen</strong>, Sairam Sundaresan, Anthony Sarah</em><br>AAAI Edge Intelligence Workshop, 2024</p>
 </li>
 <li><p><a target="_blank" rel="noopener" href="https://ieeexplore.ieee.org/abstract/document/10298041"><strong>Infrared Small and Dim Target Detection With Transformer Under Complex Backgrounds</strong></a> | <a target="_blank" rel="noopener" href="https://arxiv.org/abs/2109.14379">arxiv</a><br><em>Fangcen Liu, Chenqiang Gao, <strong>Fang Chen</strong>, Deyu Meng, Wangmeng Zuo, Xinbo Gao</em><br>IEEE Transactions on Image Processing, 2023</p>
